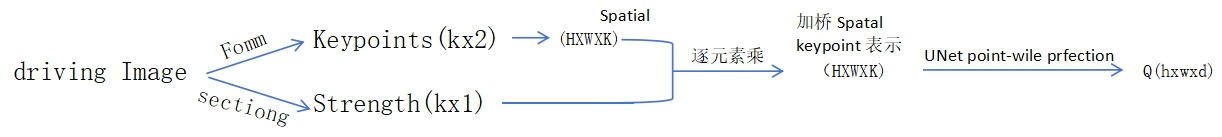
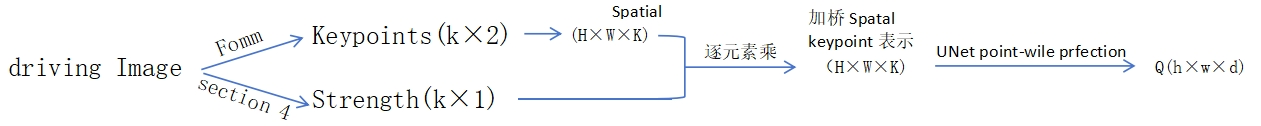
127

Changed region(s): [[0.0, 0.1905, 0.9951, 0.9524], [0.6219, 0.0714, 0.7463, 0.2143], [0.4664, 0.0476, 0.5597, 0.1667]]

diff --git a/src/53.md b/src/53.md
@@ -84,15 +84,15 @@ https://deepimagination.cc/implicit-warping/
 
 Q 的构造：    
 
-![](./assets/IT手写2-1.png) 
+![](./assets/IT手写2-2.png) 
 
-spafial keypoint 表示，[:,:,i] 为以第i个 keypoint 位置为中心，特定均值和方差的二维一通道高斯。        
+spatial keypoint 表示，[:,:,i] 为以第i个 keypoint 位置为中心，特定均值和方差的二维一通道高斯。        
    
-Q 和 K 的区别：UNet 的输入 concat (加权利spafial keypoint 表示，source Image)     
-优势：后面由模块与 keypoint 的个数无关。     
+Q 和 K 的区别：UNet 的输入 concat (加权spatial keypoint 表示，source Image)     
+优势：后面的模块与 keypoint 的个数无关。     
 
 V 的构造：    
-![](./assets/IT手写3.png) 
+![](./assets/IT手写3-1.png) 
 
 
 Q、K、V 在空间上是对应的。     
